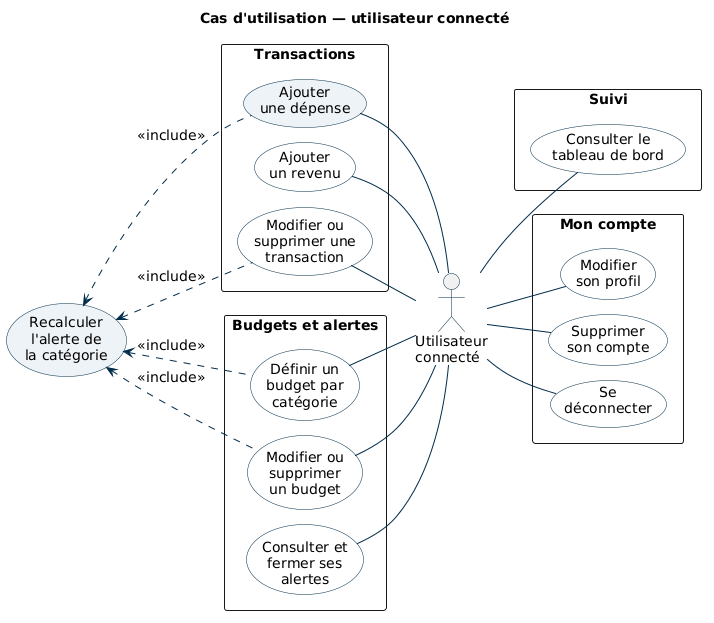
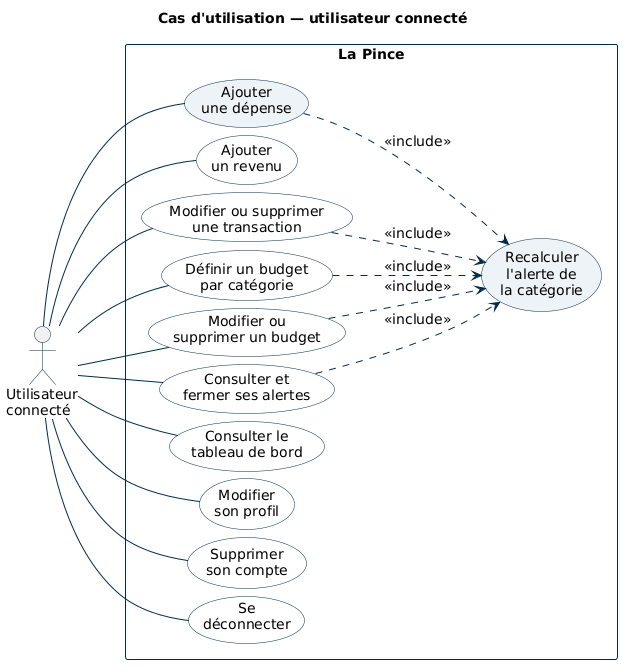
docs(diagrams): single system boundary in the use case diagram
One frame for the system, the actor outside, and the included use
case inside it. Viewing alerts also includes recalculating them
(GET /alerts refreshes alerts before reading). README sizes updated.

diff --git a/docs/diagrammes/README.md b/docs/diagrammes/README.md
@@ -4,9 +4,9 @@ Schémas UML écrits en texte ([PlantUML](https://plantuml.com/)), versionnés a
 
 | Schéma | Source | Contenu |
 |---|---|---|
-| Cas d'utilisation — utilisateur connecté | [cas-utilisation.puml](cas-utilisation.puml) | transactions, budgets et alertes, suivi, compte ; « recalculer l'alerte » inclus par 4 cas |
+| Cas d'utilisation — utilisateur connecté | [cas-utilisation.puml](cas-utilisation.puml) | un seul cadre (le système) ; transactions, budgets et alertes, suivi, compte ; « recalculer l'alerte » inclus par 5 cas |
 | Cas d'utilisation — accès au service | [cas-utilisation-acces.puml](cas-utilisation-acces.puml) | inscription, confirmation de l'email, connexion, mot de passe oublié |
-| Architecture multicouche | [architecture.puml](architecture.puml) | client, reverse proxy, API, base, et la défense propre à chaque couche |
+| Architecture multicouche | [architecture.puml](architecture.puml) | client, reverse proxy, API, PostgreSQL et Redis, et la défense propre à chaque couche |
 | Séquence du fil rouge (1/2) | [sequence-ajout-depense.puml](sequence-ajout-depense.puml) | ajouter une dépense : parcours de la requête et contrôles (session, validation, catégorie) |
 | Séquence du fil rouge (2/2) | [sequence-ecriture-alerte.puml](sequence-ecriture-alerte.puml) | écriture de la dépense et recalcul de l'alerte dans une transaction, sous verrou |
 | Déploiement | [deploiement.puml](deploiement.puml) | serveur, conteneurs Docker, flux et ports, services externes |
@@ -26,11 +26,11 @@ Chaque schéma est conçu pour une page A4 (16 cm de large utiles) : texte d'au 
 
 | Image | Largeur | Texte obtenu | Hauteur |
 |---|---|---|---|
-| `cas-utilisation.png` | 16 cm | 8,9 pt | 14,0 cm |
+| `cas-utilisation.png` | 14 cm | 8,8 pt | 14,9 cm |
 | `cas-utilisation-acces.png` | 14 cm | 8,9 pt | 8,8 cm |
-| `architecture.png` | 13 cm | 9,8 pt | 17,8 cm |
+| `architecture.png` | 13,5 cm | 8,7 pt | 18,2 cm |
 | `sequence-ajout-depense.png` | 16 cm | 8,8 pt | 20,9 cm |
 | `sequence-ecriture-alerte.png` | 15 cm | 8,8 pt | 17,8 cm |
 | `deploiement.png` | 15,5 cm | 8,7 pt | 21,6 cm |
 | `enchainement-ecrans.png` | 12,5 cm | 8,8 pt | 22,3 cm |
-| `../mcd/la-pince.png` | 12 cm | 9,6 pt | 14,9 cm |
+| `../mcd/la-pince.png` | 12 cm | 9,5 pt | 14,7 cm |
